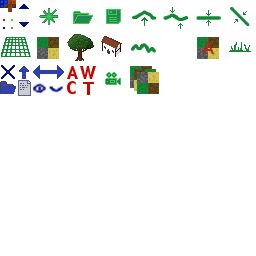
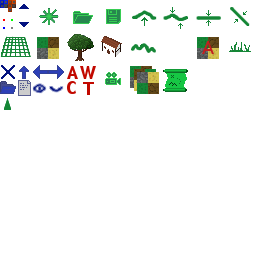
Minimap generated and shows camera direction

Changed region(s): [[0.625, 0.25, 0.75, 0.375], [0.0, 0.375, 0.0625, 0.4375]]

diff --git a/src/worldeditor.cpp b/src/worldeditor.cpp
@@ -27,6 +27,7 @@
 
 #include "dynamicmaterial.h"
 #include "materialeditor.h"
+#include "minimap.h"
 
 using namespace gui;
 using namespace base;
@@ -100,6 +101,7 @@ WorldEditor::WorldEditor(const INIFile& ini) : m_editor(0), m_heightMap(0), m_ma
 	BIND(Button, "openmap", eventPressed, showOpenDialog);
 	BIND(Button, "savemap", eventPressed, showSaveDialog);
 	BIND(Button, "options", eventPressed, showOptionsDialog);
+	BIND(Button, "minimap", eventPressed, showWorldMap);
 
 	BIND(Combobox, "toollist", eventSelected, selectToolGroup);
 	BIND(Button, "materialbutton", eventPressed, showMaterialList);
@@ -138,6 +140,13 @@ WorldEditor::WorldEditor(const INIFile& ini) : m_editor(0), m_heightMap(0), m_ma
 	Widget* shelf = m_gui->getWidget<Widget>("toolshelf");
 	if(brush) brush->setPosition( Game::width() - brush->getSize().x, 0);
 	if(shelf) shelf->setSize( Game::width() - shelf->getPosition().x - brush->getSize().x - 8, shelf->getSize().y);
+
+	// Initialise minimap
+	m_minimap = new MiniMap();
+	base::Texture& mapTex = m_minimap->getTexture();
+	int id = m_gui->getRenderer()->addImage("minimap", mapTex.width(), mapTex.height(), mapTex.unit());
+	Widget* ww = m_gui->getWidget<Widget>("mapimage");
+	m_gui->getWidget<Image>("mapimage")->setImage(id);
 
 }
 
@@ -220,7 +229,9 @@ void WorldEditor::update() {
 		vec2 p = (m_camera->getPosition().xz() - m_terrainOffset) / m_terrainSize;
 		const Point& ms = m_mapMarker->getParent()->getAbsoluteClientRect().size();
 		const Point& ps = m_mapMarker->getSize(); 
+		const vec3& dir = cam->getDirection();
 		m_mapMarker->setPosition(p.x * ms.x - ps.x/2, p.y * ms.y - ps.y/2);
+		m_mapMarker->cast<gui::Icon>()->setAngle( -atan2(dir.x, dir.z) );
 	}
 
 	// Collide with terrain
@@ -401,6 +412,7 @@ void WorldEditor::showWorldMap(Button*) {
 	if(m_heightMap && !w->isVisible()) showDialog(w);
 	else w->setVisible(false);
 	m_mapMarker = w->isVisible()? w->getWidget<Widget>("mapmarker"): 0;
+	if(w->isVisible()) m_minimap->build();
 }
 
 void WorldEditor::moveWorldMap(Widget* w, const Point& p, int b) {
@@ -787,6 +799,12 @@ void WorldEditor::loadWorld(const char* file) {
 
 	// Set initial material
 	m_materials->selectMaterial(0,0);
+
+
+	// Minimap
+	m_minimap->setWorld(m_heightMap, m_terrainSize, m_terrainOffset);
+	m_minimap->setRange(100);
+	m_minimap->build();
 }
 void WorldEditor::saveWorld(const char* file) {
 	if(m_file!=file) m_file = file;

diff --git a/src/minimap.cpp b/src/minimap.cpp
@@ -1,0 +1,83 @@
+#include "minimap.h"
+#include "terraineditor/editor.h"
+#include <cstring>
+
+using base::Texture;
+
+MiniMap::MiniMap(int size) : m_map(0) {
+	m_texture = Texture::create(size, size, Texture::R8);
+	m_data = new unsigned char[size*size];
+}
+MiniMap::~MiniMap() {
+	delete [] m_data;
+	m_texture.destroy();
+}
+
+Texture& MiniMap::getTexture() {
+	return m_texture;
+}
+
+void MiniMap::resize(int w, int h) {
+	// Need a way to recreate a texture on a specific texture unit?
+}
+
+void MiniMap::setWorld(HeightmapEditorInterface* map, const vec2& size, const vec2& offset) {
+	m_map = map;
+	m_worldSize = size;
+	m_worldOffset = offset;
+}
+void MiniMap::setRange(float max, float min) {
+	m_base = min;
+	m_scale = 255 / (max - min);
+}
+
+inline float MiniMap::getWorldHeight(int px, int py) const {
+	vec3 pos;
+	pos.x = (float)px / m_texture.width();
+	pos.z = (float)py / m_texture.height();
+	pos.x = pos.x * m_worldSize.x + m_worldOffset.x;
+	pos.z = pos.z * m_worldSize.y + m_worldOffset.y;
+	return m_map->getHeight(pos);
+}
+
+inline unsigned char clampByte(float v) { return v>0? v<255? v: 255: 0; } 
+
+void MiniMap::clear() {
+	memset(m_data, 0, m_texture.width()*m_texture.height());
+}
+void MiniMap::build() {
+	int w = m_texture.width();
+	int h = m_texture.height();
+	float min=1e8f, max=-1e8f;
+	for(int x=0; x<w; ++x) {
+		for(int y=0; y<h; ++y) {
+			float h = getWorldHeight(x, y);
+			if(h<min) min=h;
+			if(h>max) max=h;
+			m_data[x + y*w] = clampByte((h - m_base) * m_scale);
+		}
+	}
+	m_texture.setPixels(w, h, Texture::R8, m_data);
+	setRange(max, min);
+}
+void MiniMap::update(const vec2& a, const vec2& b) {
+	int w = m_texture.width();
+	int h = m_texture.height();
+	int x0 = ((a.x + m_worldOffset.x) / m_worldSize.x) * w;
+	int x1 = ((b.x + m_worldOffset.x) / m_worldSize.x) * w;
+	int y0 = ((a.y + m_worldOffset.y) / m_worldSize.y) * h;
+	int y1 = ((b.y + m_worldOffset.y) / m_worldSize.y) * h;
+	#define clamp(v,a,b) (v>a? v<b? v: b: a)
+	x0 = clamp(x0, 0, w-1);
+	x1 = clamp(x1, 0, w-1);
+	y0 = clamp(y0, 0, h-1);
+	y1 = clamp(y1, 0, h-1);
+	for(int x=x0; x<=x1; ++x) {
+		for(int y=y0; y<=y1; ++y) {
+			float h = getWorldHeight(x, y);
+			m_data[x + y*w] = clampByte((h - m_base) * m_scale);
+		}
+	}
+	m_texture.setPixels(w, h, Texture::R8, m_data);
+}
+

diff --git a/src/minimap.h b/src/minimap.h
@@ -1,0 +1,38 @@
+#ifndef _MINIMAP_
+#define _MINIMAP_
+
+#include <base/vec.h>
+#include <base/texture.h>
+
+class HeightmapEditorInterface;
+
+// Minimap texture for gui
+class MiniMap {
+	public:
+	MiniMap(int size=256);
+	~MiniMap();
+	base::Texture& getTexture();
+	void resize(int width, int height);
+
+	void setWorld(HeightmapEditorInterface* world, const vec2& size, const vec2& offset=vec2());
+	void setRange(float max, float min=0);
+
+	void clear();
+	void build();
+	void update(const vec2& a, const vec2& b);
+
+	protected:
+	float getWorldHeight(int px, int py) const;
+
+	protected:
+	HeightmapEditorInterface* m_map;
+	base::Texture             m_texture;
+	vec2                      m_worldSize;
+	vec2                      m_worldOffset;
+	float                     m_base;
+	float                     m_scale;
+	unsigned char*            m_data;
+};
+
+#endif
+

diff --git a/src/worldeditor.h b/src/worldeditor.h
@@ -14,6 +14,7 @@
 class EditableTexture;
 class DynamicMaterial;
 class MaterialEditor;
+class MiniMap;
 
 namespace gui { class Button; class Combobox; class Scrollbar; class Window; }
 namespace base { class INIFile; }
@@ -88,6 +89,8 @@ class WorldEditor : public base::SceneState {
 	HeightmapEditorInterface* m_heightMap;	// Terrain object
 	std::vector<ToolGroup*> m_groups;		// Terrain tool groups
 	MaterialEditor* m_materials;			// Terrain material editor
+
+	MiniMap* m_minimap;						// Minimap data
 
 	// List of streams that need flushing on save ?
 	std::vector<BufferedStream*> m_streams;
